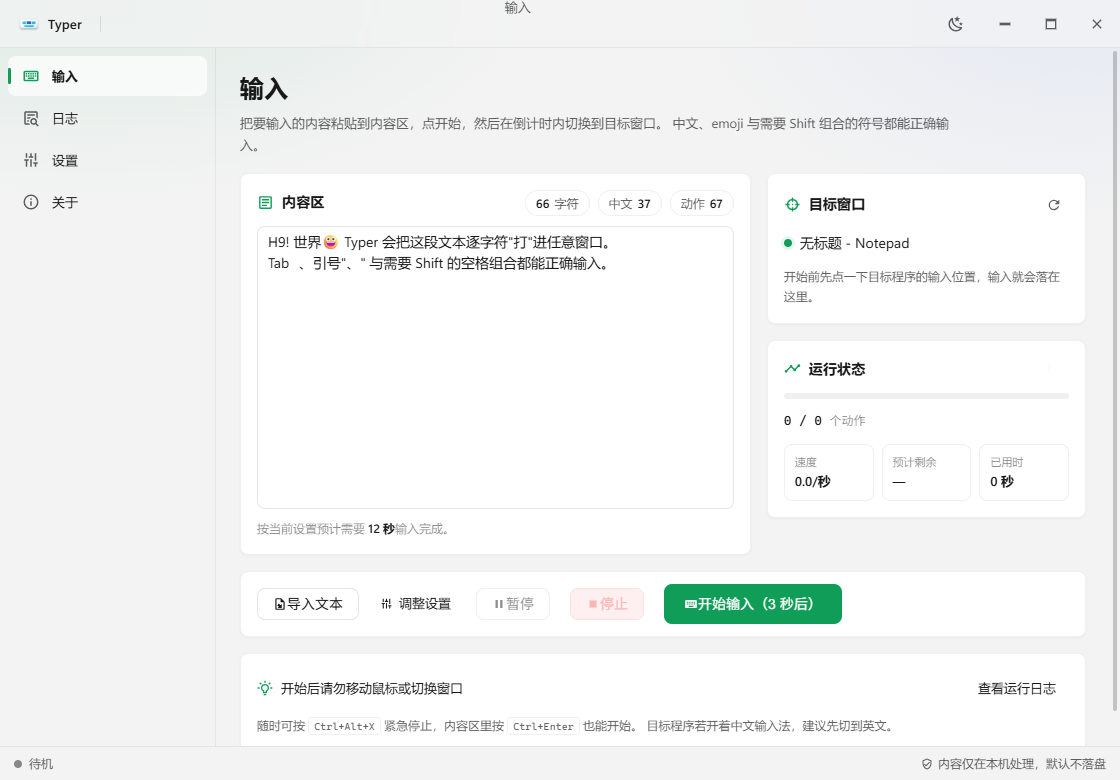
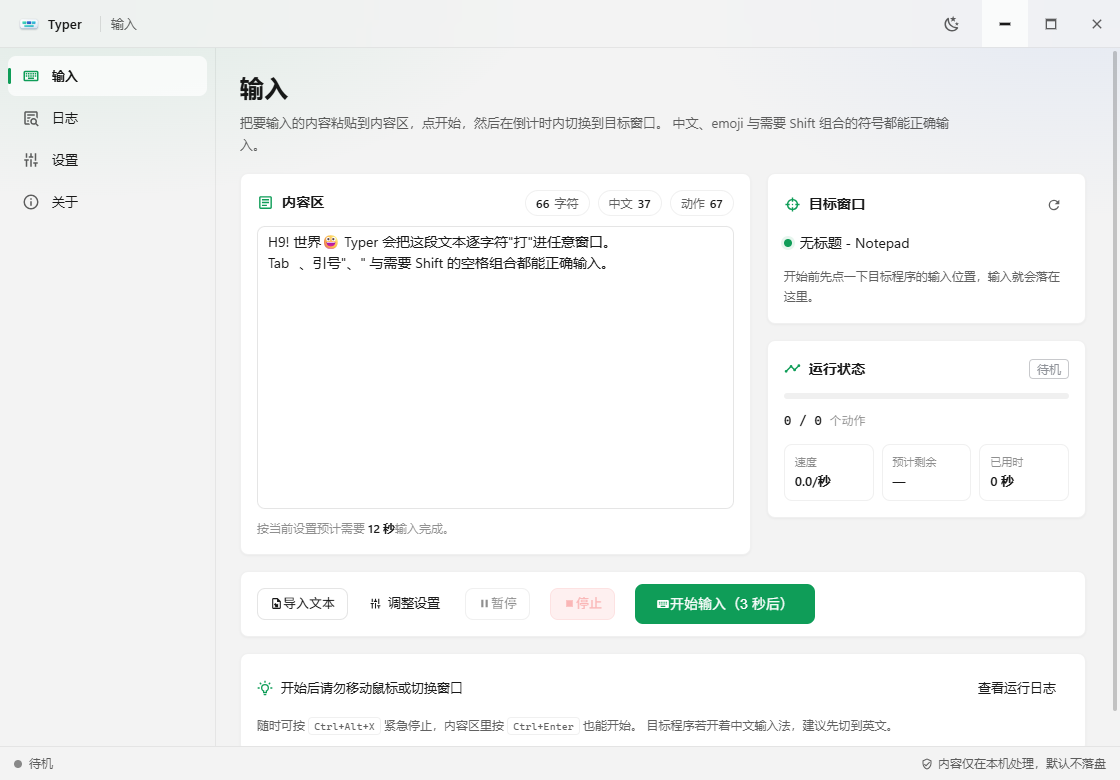
fix(ui): 标题栏页面名左对齐、操作条按钮统一高度
- 标题栏页面名不再水平居中：类名 .page 与全局的页面骨架 .page
  （width:100% + flex-direction:column）撞名，导致它被撑满整条标题栏，
  文本随即被水平居中。改名 .page-title 并去掉多余的 flex/height 声明，
  现在靠标题栏自身的 align-items 垂直居中。
- 输入页操作条：Element Plus 按钮与 RouterLink 度量不一致
  （32px/14px 字 vs 36.8px/13px 字），同一排按钮高矮不一。
  显式统一到两级尺寸：次要控件 32px、主按钮 40px。
- 更新 README 截图。

diff --git a/src/renderer/src/components/TitleBar.vue b/src/renderer/src/components/TitleBar.vue
@@ -25,7 +25,7 @@ const pageTitle = computed(() => {
     </RouterLink>
 
     <span class="divider" />
-    <span class="page">{{ pageTitle }}</span>
+    <span class="page-title">{{ pageTitle }}</span>
 
     <div class="spacer" />
 
@@ -101,11 +101,12 @@ const pageTitle = computed(() => {
   background: var(--stroke-strong);
 }
 
-.page {
-  /* 与品牌名、分隔线同一条基线：行高固定为 1，避免继承 body 的 1.6 把文字顶高 */
-  display: inline-flex;
-  align-items: center;
-  height: 100%;
+/*
+ * 当前页面名。类名刻意不叫 `.page`：全局样式里的 `.page` 是"页面骨架"
+ * （width: 100% + flex-direction: column），撞名会让这里被撑满整条标题栏，
+ * 文本随即被 align-items 水平居中——看起来就像"页面名莫名其妙居中了"。
+ */
+.page-title {
   font-size: 13px;
   line-height: 1;
   color: var(--text-2);

diff --git a/src/renderer/src/views/TyperView.vue b/src/renderer/src/views/TyperView.vue
@@ -247,6 +247,26 @@ const startLabel = computed(() => {
     gap: 8px;
   }
 
+  /*
+   * 操作条只有两级尺寸：次要控件 32px、主按钮 40px。
+   * Element Plus 的按钮与 RouterLink 是两种元素，默认度量并不一致
+   * （按钮 32px/14px 字，链接 36.8px/13px 字），不显式对齐就会出现
+   * "同一排按钮高矮不一"的错位。
+   */
+  :deep(.el-button:not(.el-button--large)),
+  .link-btn {
+    height: 32px;
+    padding: 0 12px;
+    font-size: 13px;
+  }
+
+  :deep(.el-button--large) {
+    height: 40px;
+    padding: 0 20px;
+    font-size: 14px;
+    font-weight: 600;
+  }
+
   @media (max-width: 780px) {
     flex-wrap: wrap;
   }
